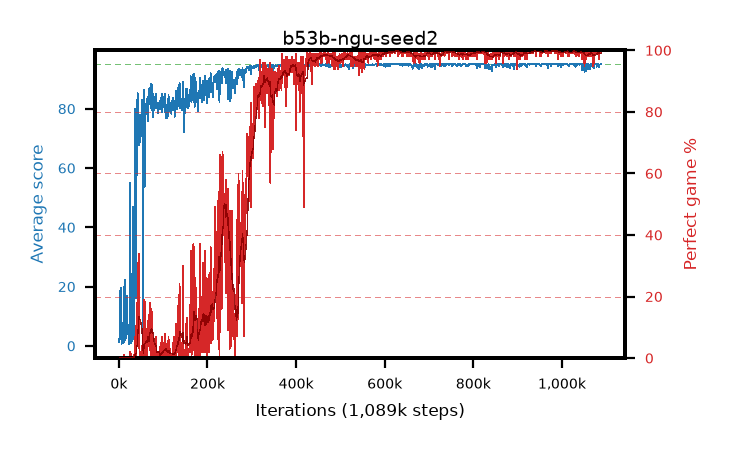
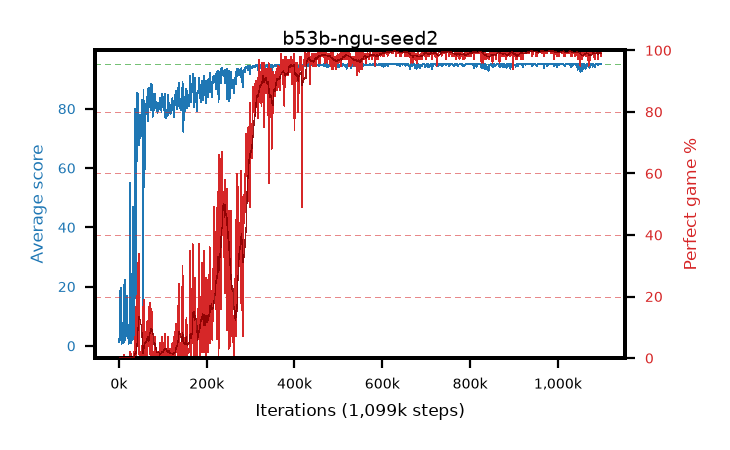
live pictures of 4 arm(s)

diff --git a/results/b53b-ngu-seed2/b53b-ngu-seed2.md b/results/b53b-ngu-seed2/b53b-ngu-seed2.md
@@ -1,6 +1,6 @@
 # b53b-ngu-seed2
 
-step **1,089,000** · 1089 evals · trailing **94.72** · peak **94.96** @1,028,000 · sef **71.3** · best30 **99.8** @983,000
+step **1,099,000** · 1099 evals · trailing **94.85** · peak **94.96** @1,028,000 · sef **71.6** · best30 **99.8** @983,000
 
 ## Config
 
@@ -80,15 +80,15 @@ step **1,089,000** · 1089 evals · trailing **94.72** · peak **94.96** @1,028,
 | 2000 | 6.04 | 3.73 | 0.0 | 19.0 | 3.28 | 0.0 | 0.4 |
 | 3000 | 18.06 | 8.5 | 1.0 | 40.0 | 15.298 | 0.0 | 0.4 |
 | ... | ... | ... | ... | ... | ... | ... | ... |
-| 1078000 | 94.97 | 94.5 | 92.0 | 95.0 | 192.652 | 99.0 | 0.4 |
-| 1079000 | 94.23 | 94.48 | 18.0 | 95.0 | 191.901 | 99.0 | 0.4 |
-| 1080000 | 95.0 | 94.5 | 95.0 | 95.0 | 193.715 | 100.0 | 0.4 |
-| 1081000 | 94.98 | 94.59 | 93.0 | 95.0 | 192.657 | 99.0 | 0.4 |
-| 1082000 | 94.97 | 94.59 | 92.0 | 95.0 | 192.679 | 99.0 | 0.4 |
-| 1083000 | 94.94 | 94.59 | 90.0 | 95.0 | 191.565 | 98.0 | 0.4 |
-| 1084000 | 94.14 | 94.64 | 14.0 | 95.0 | 189.769 | 97.0 | 0.4 |
-| 1085000 | 94.93 | 94.67 | 88.0 | 95.0 | 192.584 | 99.0 | 0.4 |
-| 1086000 | 94.94 | 94.67 | 89.0 | 95.0 | 192.598 | 99.0 | 0.4 |
-| 1087000 | 95.0 | 94.67 | 95.0 | 95.0 | 193.703 | 100.0 | 0.4 |
 | 1088000 | 95.0 | 94.72 | 95.0 | 95.0 | 193.712 | 100.0 | 0.4 |
 | 1089000 | 95.0 | 94.72 | 95.0 | 95.0 | 193.719 | 100.0 | 0.4 |
+| 1090000 | 94.99 | 94.72 | 94.0 | 95.0 | 192.624 | 99.0 | 0.4 |
+| 1091000 | 94.86 | 94.74 | 90.0 | 95.0 | 190.52 | 97.0 | 0.4 |
+| 1092000 | 94.91 | 94.77 | 86.0 | 95.0 | 192.619 | 99.0 | 0.4 |
+| 1093000 | 95.0 | 94.82 | 95.0 | 95.0 | 193.71 | 100.0 | 0.4 |
+| 1094000 | 95.0 | 94.82 | 95.0 | 95.0 | 193.704 | 100.0 | 0.4 |
+| 1095000 | 94.95 | 94.84 | 90.0 | 95.0 | 192.667 | 99.0 | 0.4 |
+| 1096000 | 95.0 | 94.84 | 95.0 | 95.0 | 193.714 | 100.0 | 0.4 |
+| 1097000 | 94.97 | 94.85 | 92.0 | 95.0 | 192.682 | 99.0 | 0.4 |
+| 1098000 | 94.98 | 94.85 | 94.0 | 95.0 | 191.59 | 98.0 | 0.4 |
+| 1099000 | 94.97 | 94.85 | 92.0 | 95.0 | 192.689 | 99.0 | 0.4 |

diff --git a/results/b53c-ngu-seed3/b53c-ngu-seed3.md b/results/b53c-ngu-seed3/b53c-ngu-seed3.md
@@ -1,6 +1,6 @@
 # b53c-ngu-seed3
 
-step **1,089,000** · 1089 evals · trailing **94.91** · peak **94.93** @574,000 · sef **79.0** · best30 **99.6** @585,000
+step **1,099,000** · 1099 evals · trailing **94.8** · peak **94.93** @574,000 · sef **79.2** · best30 **99.6** @585,000
 
 ## Config
 
@@ -80,15 +80,15 @@ step **1,089,000** · 1089 evals · trailing **94.91** · peak **94.93** @574,00
 | 2000 | 6.19 | 3.38 | 0.0 | 14.0 | 2.147 | 0.0 | 0.4 |
 | 3000 | 12.02 | 6.26 | 1.0 | 18.0 | 7.496 | 0.0 | 0.4 |
 | ... | ... | ... | ... | ... | ... | ... | ... |
-| 1078000 | 94.71 | 94.85 | 78.0 | 95.0 | 190.314 | 97.0 | 0.4 |
-| 1079000 | 94.91 | 94.87 | 90.0 | 95.0 | 191.52 | 98.0 | 0.4 |
-| 1080000 | 94.61 | 94.86 | 58.0 | 95.0 | 191.213 | 98.0 | 0.4 |
-| 1081000 | 94.93 | 94.88 | 92.0 | 95.0 | 190.42 | 97.0 | 0.4 |
-| 1082000 | 95.0 | 94.9 | 95.0 | 95.0 | 193.674 | 100.0 | 0.4 |
-| 1083000 | 94.93 | 94.9 | 89.0 | 95.0 | 191.55 | 98.0 | 0.4 |
-| 1084000 | 94.8 | 94.89 | 82.0 | 95.0 | 191.403 | 98.0 | 0.4 |
-| 1085000 | 94.79 | 94.89 | 81.0 | 95.0 | 191.428 | 98.0 | 0.4 |
-| 1086000 | 95.0 | 94.91 | 95.0 | 95.0 | 193.694 | 100.0 | 0.4 |
-| 1087000 | 94.98 | 94.91 | 93.0 | 95.0 | 192.602 | 99.0 | 0.4 |
 | 1088000 | 95.0 | 94.91 | 95.0 | 95.0 | 193.711 | 100.0 | 0.4 |
 | 1089000 | 94.95 | 94.91 | 92.0 | 95.0 | 191.596 | 98.0 | 0.4 |
+| 1090000 | 95.0 | 94.91 | 95.0 | 95.0 | 193.706 | 100.0 | 0.4 |
+| 1091000 | 94.23 | 94.88 | 20.0 | 95.0 | 190.867 | 98.0 | 0.4 |
+| 1092000 | 94.94 | 94.89 | 90.0 | 95.0 | 191.571 | 98.0 | 0.4 |
+| 1093000 | 94.46 | 94.87 | 44.0 | 95.0 | 190.042 | 97.0 | 0.4 |
+| 1094000 | 95.0 | 94.89 | 95.0 | 95.0 | 193.699 | 100.0 | 0.4 |
+| 1095000 | 94.64 | 94.88 | 64.0 | 95.0 | 190.246 | 97.0 | 0.4 |
+| 1096000 | 94.82 | 94.88 | 85.0 | 95.0 | 190.386 | 97.0 | 0.4 |
+| 1097000 | 94.9 | 94.87 | 88.0 | 95.0 | 191.558 | 98.0 | 0.4 |
+| 1098000 | 93.5 | 94.82 | 16.0 | 95.0 | 190.115 | 98.0 | 0.4 |
+| 1099000 | 94.23 | 94.8 | 23.0 | 95.0 | 188.762 | 96.0 | 0.4 |
